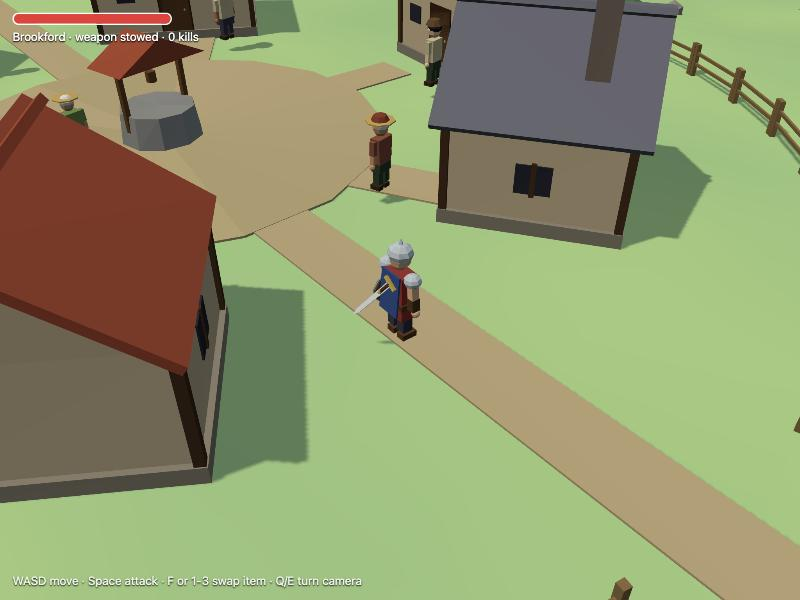
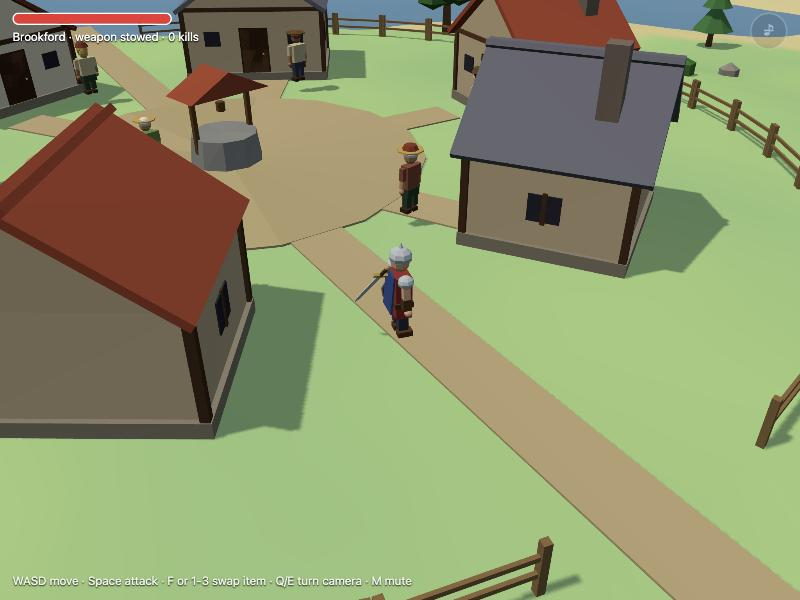
Villages: aim the stowed weapon by its shape, so it hangs right after main's prop-orientation fix

diff --git a/src/game.js b/src/game.js
@@ -443,14 +443,31 @@ var village
     return r == d ? [x, z] : [T.x + (dx / d) * r, T.z + (dz / d) * r]
   })
 
-  // the weapon hangs on the warrior's back inside the village
+  // the weapon hangs on the warrior's back inside the village, its longest end down (a torch's flame up)
   const back = new THREE.Object3D()
-  back.position.set(0, 0.35, -0.27)
-  back.rotation.set(-70 * DEG, 0, 35 * DEG, 'ZYX') // tip down and back, then lean across the back
+  const turn = new THREE.Object3D() // aims whichever prop is stowed
+  back.position.set(-0.05, 0.62, -0.27)
+  back.rotation.set(110 * DEG, 0, 35 * DEG, 'ZYX') // +z points down and back, leaning across the back
+  back.add(turn)
   player.m.bones.chest.add(back)
-  player.m.bones.back = back
+  player.m.bones.back = turn
+  const v = new THREE.Vector3()
   function stow(on) {
-    hold(lib, player.m, 'back', on ? ITEMS[player.item] : null)
+    const p = hold(lib, player.m, 'back', on ? ITEMS[player.item] : null)
+    if (p) {
+      // find the prop's far end in its own space, then turn that end to +z
+      turn.quaternion.identity()
+      p.root.updateMatrixWorld(true)
+      const inv = p.root.matrixWorld.clone().invert()
+      const far = new THREE.Vector3()
+      p.root.traverse((o) => {
+        if (!o.isMesh) return
+        const a = o.geometry.attributes.position
+        const M = inv.clone().multiply(o.matrixWorld)
+        for (let i = 0; i < a.count; i++) if (v.fromBufferAttribute(a, i).applyMatrix4(M).length() > far.length()) far.copy(v)
+      })
+      turn.quaternion.setFromUnitVectors(far.normalize(), v.set(0, 0, p.vars.burn ? -1 : 1))
+    }
     if (on) hold(lib, player.m, 'handR', null)
     else equip(player.item)
     torchLight.intensity = 0

diff --git a/README.md b/README.md
@@ -264,7 +264,8 @@ surprisal -1** (the whole game goes from 3,068 to 4,112 bytes). With the old tex
 
 A seeded village sits about 30 units from the start: five or six houses round a square with a well, dirt paths to each
 door, and a fence ring with two gates. Seven townspeople stroll between the doors and the well and stop to idle. Walk
-in and the warrior hangs the weapon on his back; attacking is disabled and the HUD shows the village's name. Walk out
+in and the warrior hangs the weapon on his back (each item is aimed by its own shape: its longest end points down,
+a torch's flame up); attacking is disabled and the HUD shows the village's name. Walk out
 and the weapon is back in hand. Monsters don't spawn inside, stop chasing once you're in, and are pushed back at the
 fence, so they wait at the edge. Walk into any door: the screen fades to black and you're inside, by the fire. Walk
 back out of the door and you're outside again, in front of it.
